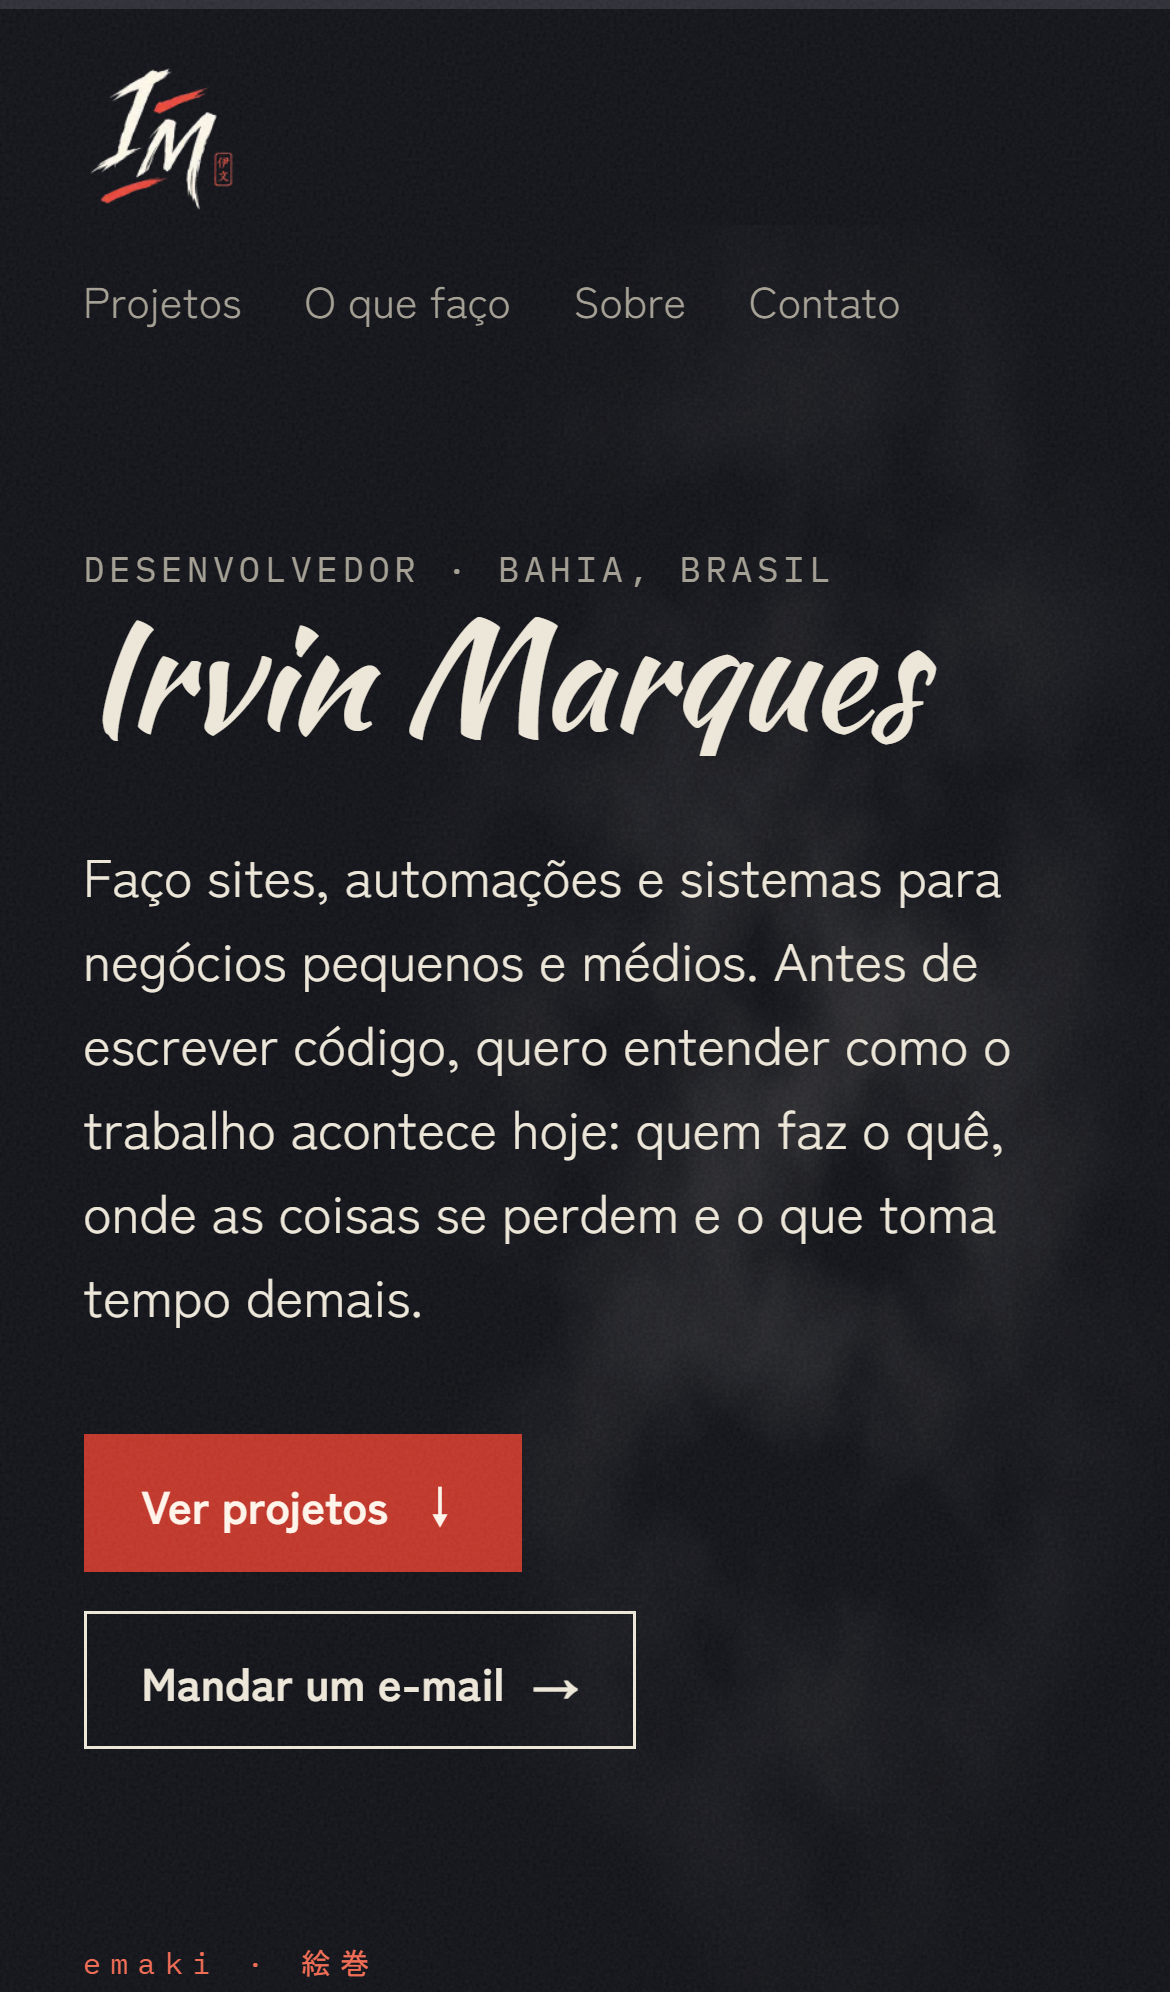
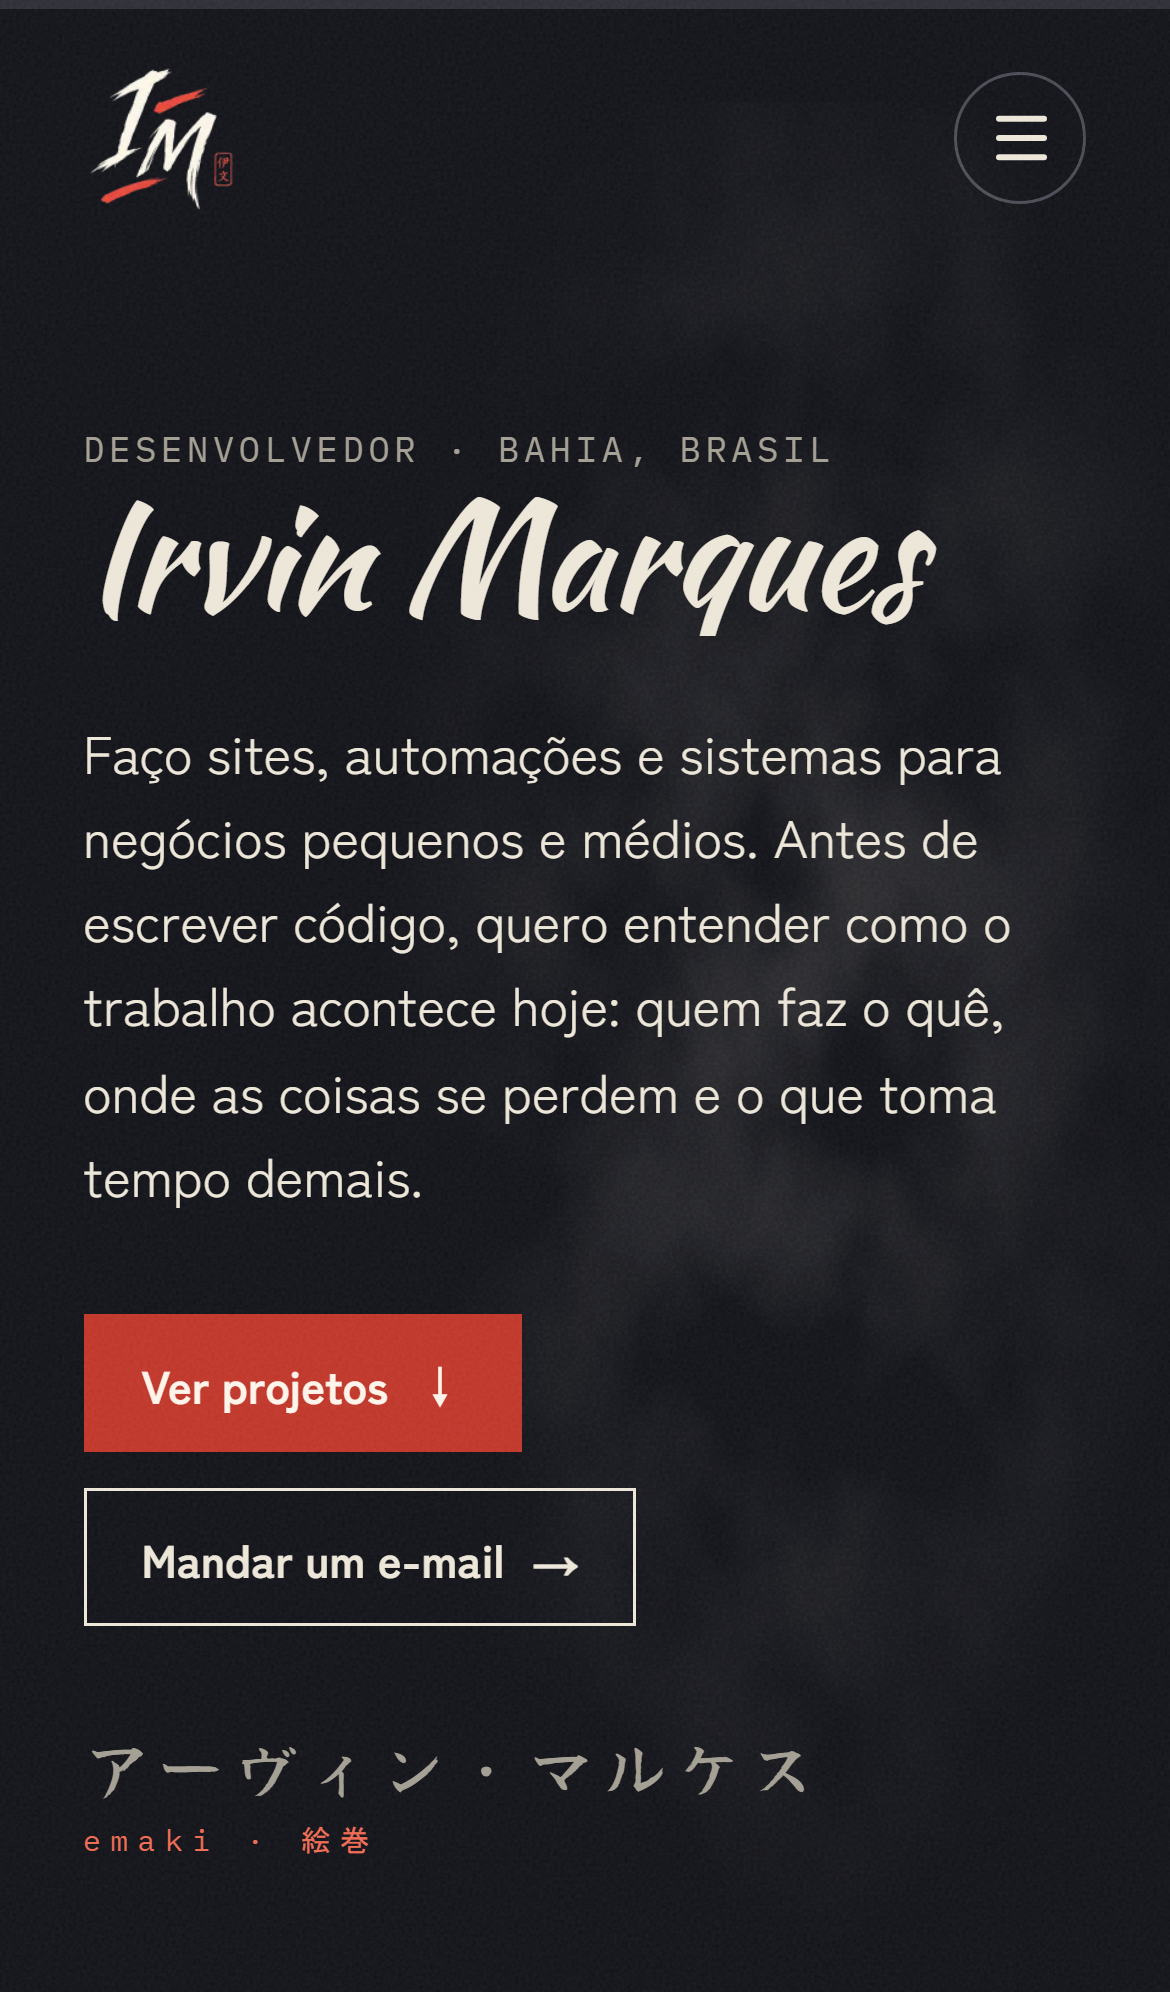
feat: mobile hamburger menu and drop redundant scene labels
- Mobile header collapses into a hamburger button whose panel unrolls
  with staggered links; closes on link, Esc or outside click (I-19)
- Remove the "Cena um · ..." kickers that repeated the brush titles
- Refresh the project screenshots with the new mobile header

diff --git a/tests/e2e/home.spec.ts b/tests/e2e/home.spec.ts
@@ -45,6 +45,26 @@ test('voltar ao topo aparece só no fim da página e sobe até o cabeçalho', as
   await expect(toTop).toBeHidden();
 });
 
+test('no celular o menu abre pelo botão e fecha ao escolher uma opção ou com Esc', async ({
+  page,
+}) => {
+  await page.setViewportSize({ width: 390, height: 760 });
+  await page.goto('/');
+  const toggle = page.locator('.menu-toggle');
+  const nav = page.getByRole('navigation', { name: 'Principal' });
+  await expect(toggle).toHaveAttribute('aria-expanded', 'false');
+  await expect(nav).toBeHidden();
+  await toggle.click();
+  await expect(toggle).toHaveAttribute('aria-expanded', 'true');
+  await nav.getByRole('link', { name: 'Contato' }).click();
+  await expect(toggle).toHaveAttribute('aria-expanded', 'false');
+  await expect(page).toHaveURL(/#contato$/);
+  await toggle.click();
+  await page.keyboard.press('Escape');
+  await expect(toggle).toHaveAttribute('aria-expanded', 'false');
+  await expect(toggle).toBeFocused();
+});
+
 test('pergaminho do Sobre abre e enrola pelo botão', async ({ page }) => {
   await page.goto('/');
   const toggle = page.locator('[data-maki-toggle]');

diff --git a/docs/INTERACTIONS.md b/docs/INTERACTIONS.md
@@ -43,6 +43,7 @@
 | I-15 | Pergaminho do Sobre (makimono) | Clique no rolo | O rolo fechado desenrola a foto (1,1 s, `grid-template-rows` 0fr → 1fr); o botão vira "Enrolar" e fecha de novo. No desktop abre por cima da página, sem empurrar o texto | CSS + classe `.js` no `<html>` | Botão nativo com `aria-expanded` e `aria-controls` | Abre e fecha sem transição | Rolo aberto, sem botão | MVP ✅ |
 | I-16 | Fumaça no fundo | Movimento do mouse | Onde o mouse passa saem baforadas de tinta clara (opacidade máx. ~14%) que seguem a direção do movimento, sobem, crescem e somem em 1,6–2,8 s | `<canvas>` 2D fixo atrás do conteúdo, em meia resolução; `requestAnimationFrame` só enquanto há fumaça; máx. 160 baforadas | Decorativa (`aria-hidden`); não existe em toque (`pointer: fine` e `pointerType` mouse) | Desligada | Sem fumaça | MVP ✅ |
 | I-17 | Rolagem suave até a cena | Clique em link de âncora (menu do cabeçalho, "Ver projetos", voltar ao topo) | A página rola suavemente até o destino, com folga no topo | CSS nativo (`scroll-behavior: smooth`, `scroll-padding-top`) | Igual: Enter no link rola do mesmo jeito e o foco vai para o destino | Salto instantâneo | Salto instantâneo | MVP ✅ |
+| I-19 | Menu sanduíche no celular | Clique no botão de três traços (telas < 48rem) | Os traços viram um X; o painel do menu se desenrola de cima para baixo (`clip-path`, `--dur-base`) e as opções entram uma a uma (fade + 8 px, 40 ms entre elas). Fecha ao escolher uma opção, com Esc ou com clique fora | Botão + classe `.open`; CSS (`clip-path`, `opacity`, `transform`) | Botão nativo com `aria-expanded` e `aria-controls`; Esc fecha e devolve o foco ao botão | Abre e fecha sem transição | Opções do menu em linha abaixo da logo, sem botão | MVP ✅ |
 | I-18 | Voltar ao topo | Rodapé entra na viewport (fim da página) | Botão redondo no tom do papel, com contorno e seta vermelhos, sobe e cresce suavemente no canto inferior direito (fade + translate/scale, `--dur-slow`; some em `--dur-fast`) e leva ao topo com a rolagem do I-17; some ao subir | Link `#topo` + classe via IntersectionObserver | Link nativo, focável; fica visível enquanto tem foco | Aparece sem transição | Link "Voltar ao topo" no fim do rodapé | MVP ✅ |
 
 ## Especificação: figura-assinatura (I-08, removida)

diff --git a/docs/DESIGN.md b/docs/DESIGN.md
@@ -54,7 +54,7 @@ Visíveis juntos em `/interno/componentes` (só em `npm run dev` e no build de t
 
 | Componente | Arquivo | Responsabilidade |
 |---|---|---|
-| `Scene` | `home/Scene.astro` | Cena da home: kanji, rótulo, título pintado e conteúdo |
+| `Scene` | `home/Scene.astro` | Cena da home: kanji, título pintado e conteúdo |
 | `ProjectGates` | `home/ProjectGates.astro` | Projetos atrás do portão torii; não renderiza nada se vazio |
 | `ToriiGate` | `home/ToriiGate.astro` | Desenho do portão (largo e alto) com o número do projeto |
 | `Makimono` | `home/Makimono.astro` | Pergaminho do Sobre que desenrola a foto |
